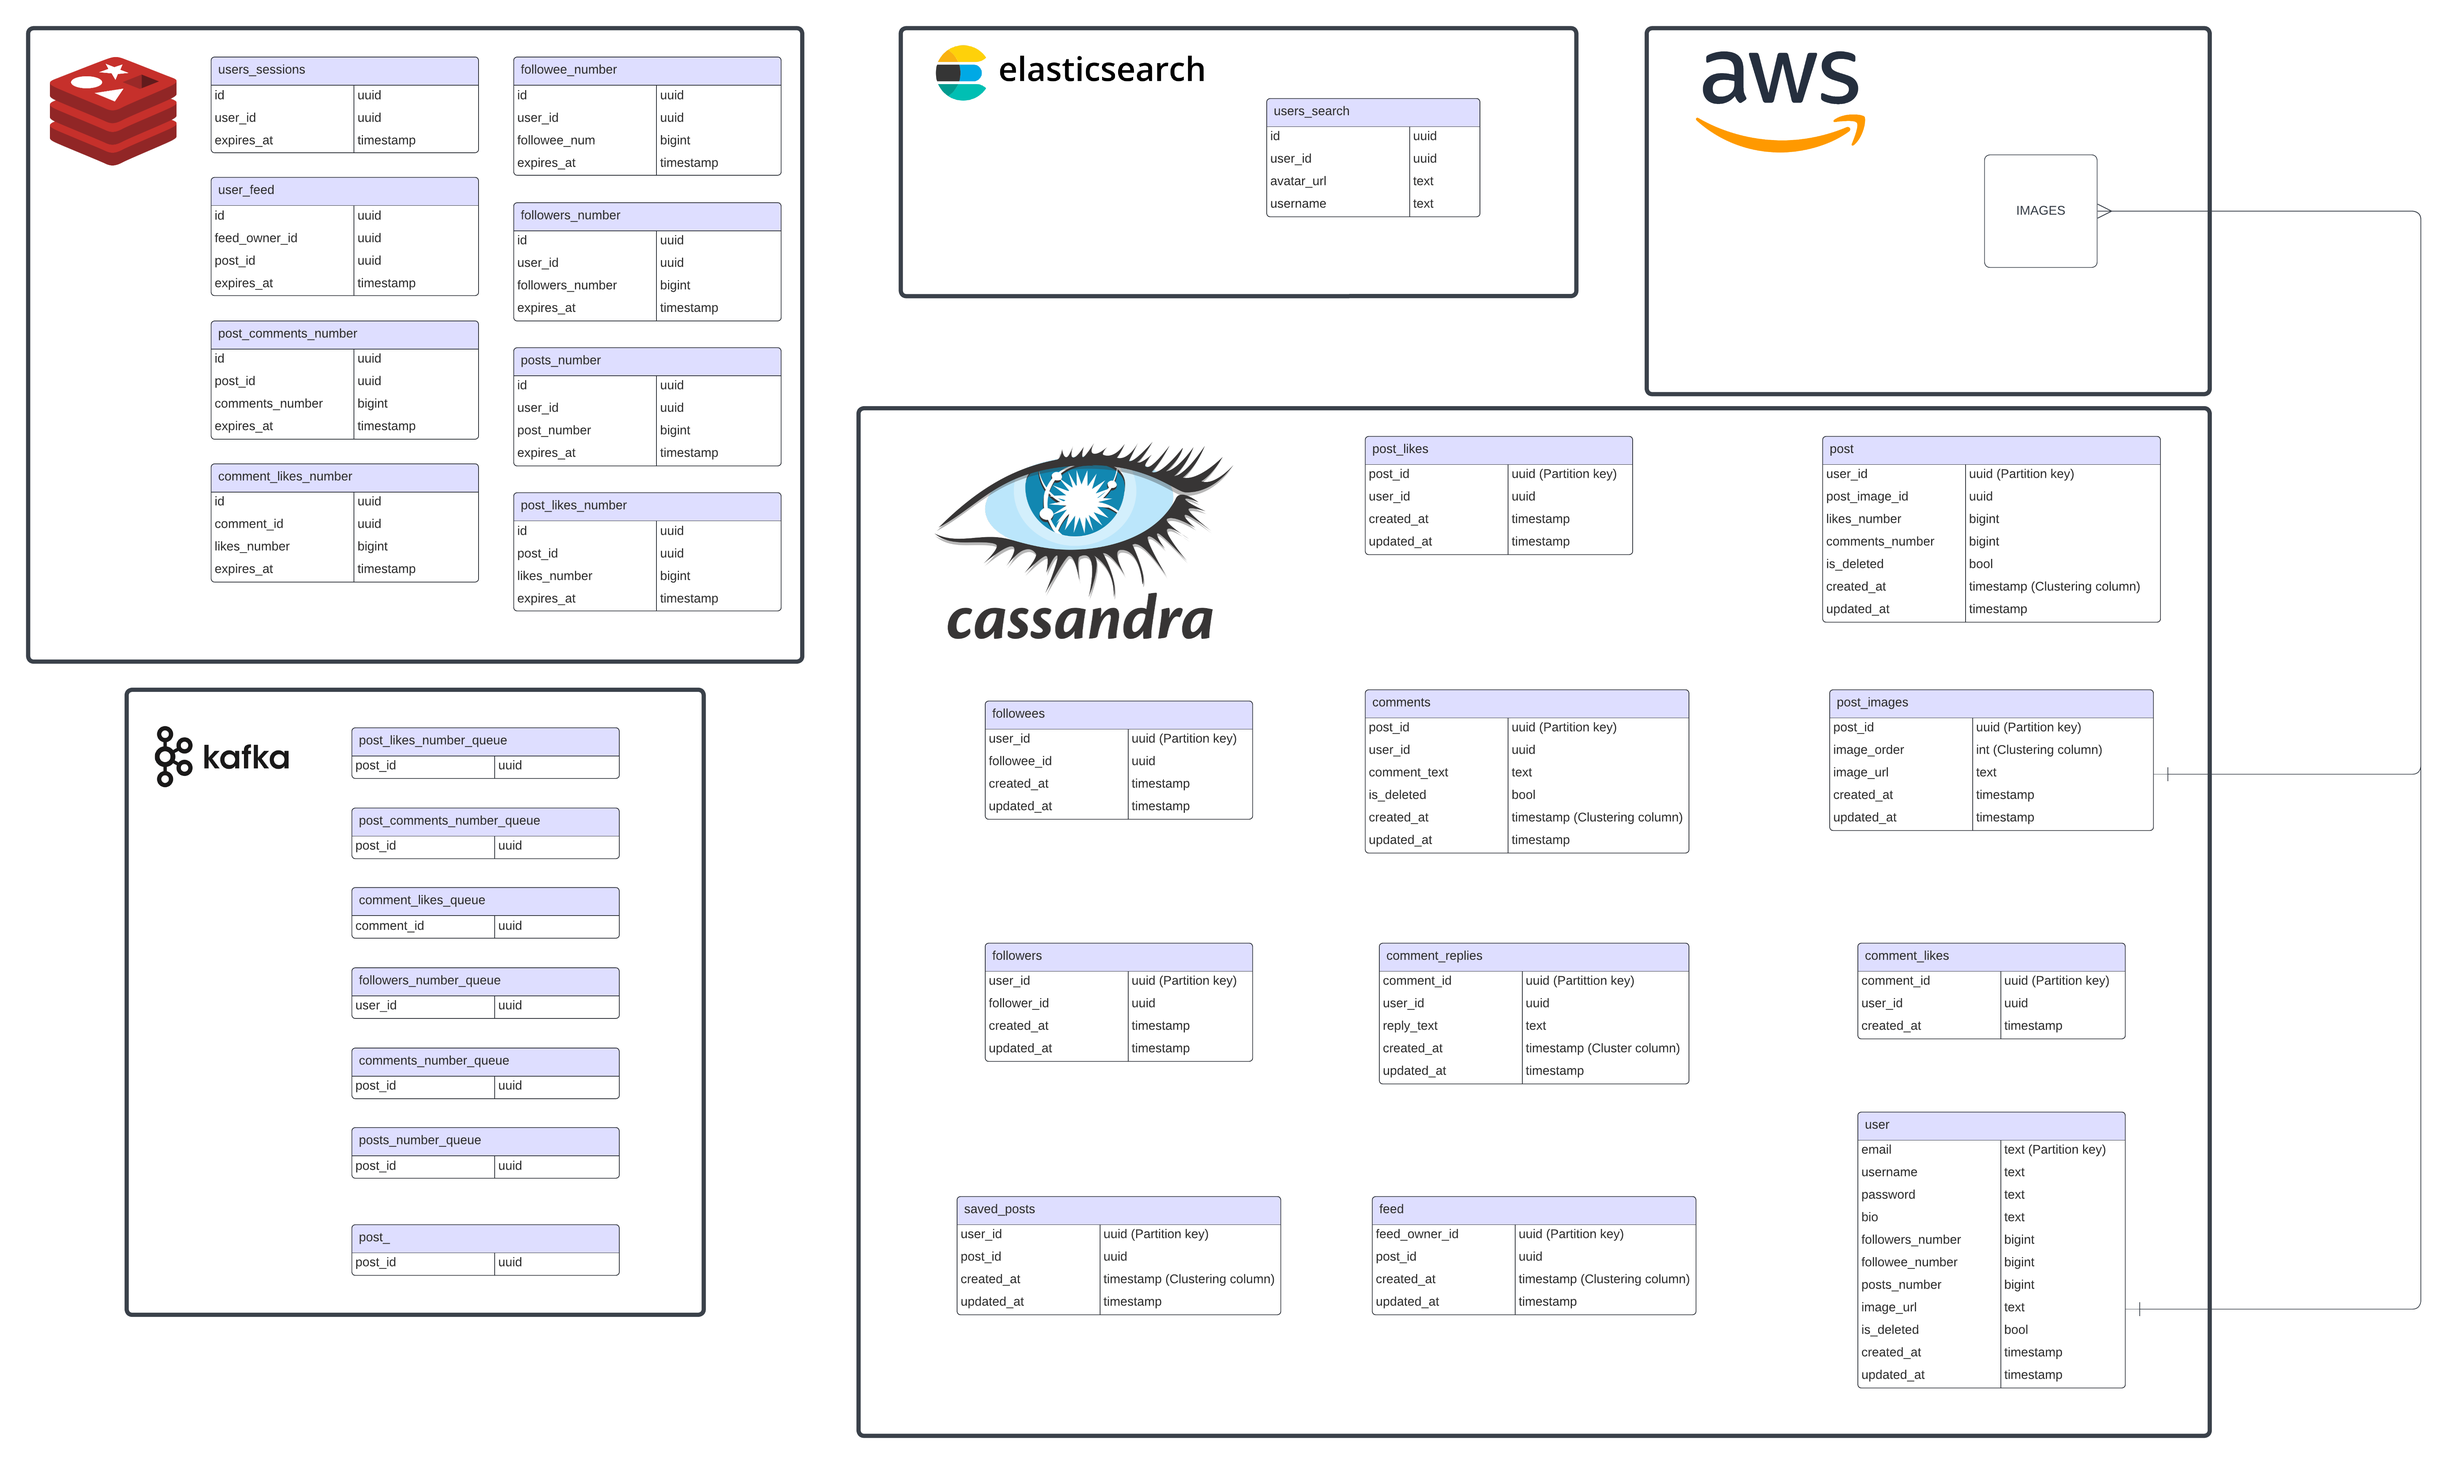
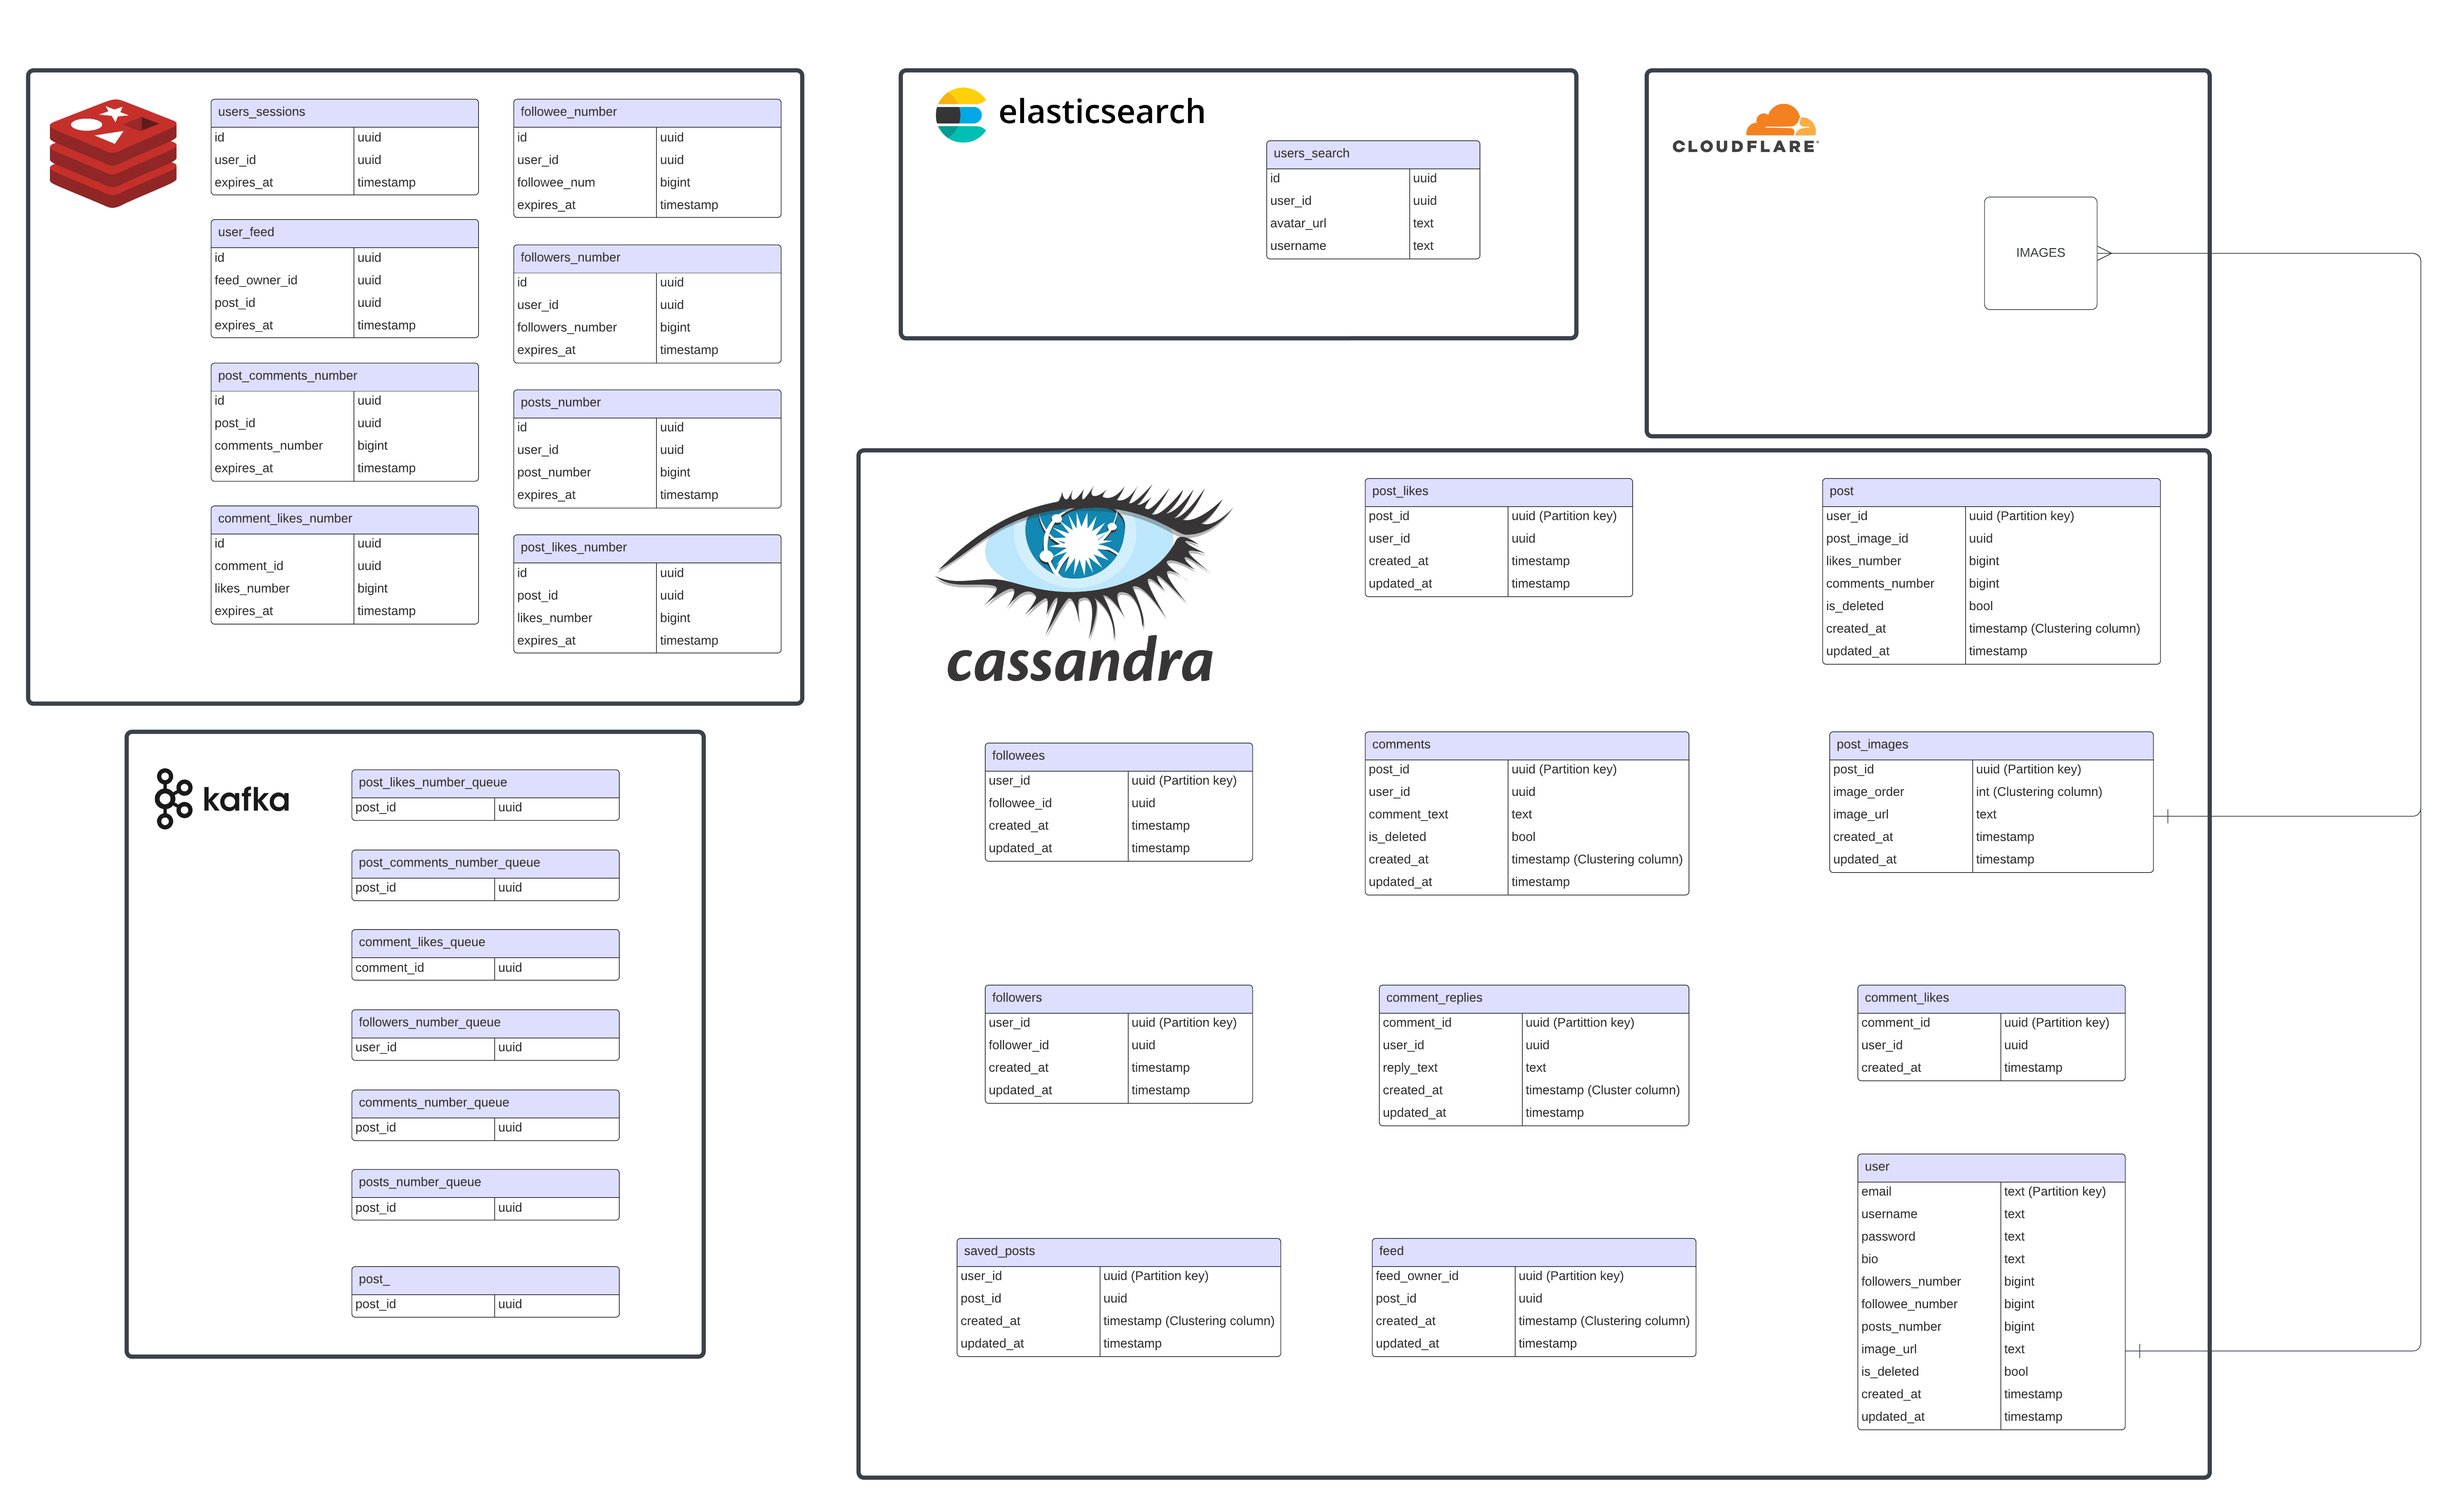
upd 8

diff --git a/README.md b/README.md
@@ -488,6 +488,33 @@ Kubernetes сам следит за состоянием pod-ов и при на
    4. Объединяет эти посты с остальной частью ленты и сортирует их по времени, а затем отдает ленту пользователю.
 
 
+## 8. Технологии
+
+Отлично! Вот заполненная мотивационная часть для каждой технологии, исходя из контекста проекта Instagram с его высокими нагрузками и требованиями:
+
+## 8. Технологии
+
+| Технология    | Область применения      | Мотивационная часть                                                                                                                                                                                                                                                                     |
+|---------------|-------------------------|-----------------------------------------------------------------------------------------------------------------------------------------------------------------------------------------------------------------------------------------------------------------------------------------|
+| Golang        | Backend                 | Высокая производительность, встроенная поддержка конкурентности (горутины) для эффективной обработки огромного количества одновременных запросов.                                                                                                                                       |
+| TypeScript    | Frontend                | Добавляет статическую типизацию в JavaScript, улучшая надежность, поддерживаемость и масштабируемость сложного frontend-кода. Снижает количество ошибок на этапе выполнения, упрощает рефакторинг в больших командах.                                                                   |
+| React         | Frontend framework      | Популярная библиотека с обширной экосистемой и большим сообществом. Позволяет эффективно создавать сложные, интерактивные пользовательские интерфейсы.                                                                                                                                  |
+| Cassandra     | Database                | Распределенная NoSQL СУБД, идеально подходящая для обработки огромных объемов данных, высоких нагрузок на запись и чтение. Обеспечивает горизонтальную масштабируемость из коробки, высокую доступность и отказоустойчивость в нескольких дата-центрах.                                 |
+| Redis         | Cache                   | Высокопроизводительное in-memory хранилище. Используется для кэширования часто запрашиваемых данных, снижения задержек и нагрузки на основную БД.                                                                                                                                       |
+| Kafka         | Message broker          | Распределенная, отказоустойчивая и масштабируемая платформа для потоковой обработки событий. Используется для асинхронной обработки задач, общения микросервисов и надежной доставки событий.                                                                                           |
+| Cloudflare R2 | S3 storage              | S3-совместимое объектное хранилище для медиафайлов. Выбрано за высокую доступность, надежность, масштабируемость и использование возможностей глобальной сети Cloudflare.                                                                                                               |
+| Nginx         | Proxy server            | Высокопроизводительный, стабильный обратный прокси-сервер и балансировщик нагрузки. Используется для терминирования SSL-соединений, балансировки L7-нагрузки между backend-сервисами.                                                                                                   |
+| Prometheus    | Metrics                 | Ведущая система мониторинга для сбора time-series метрик. Необходима для отслеживания производительности, состояния здоровья и потребления ресурсов многочисленных сервисов и инфраструктуры в реальном времени.                                                                        |
+| Grafana       | Metrics                 | Платформа для визуализации метрик и логов. Используется для создания дашбордов на основе данных из Prometheus, позволяя оперативно отслеживать состояние системы, анализировать тренды и быстро диагностировать проблемы.                                                               |
+| Docker        | Containerization        | Стандарт для упаковки приложений и их зависимостей в контейнеры. Обеспечивает консистентность окружений, упрощает развертывание и управление микросервисами, является основой для оркестрации с помощью Kubernetes.                                                                     |
+| Kubernetes    | Container orchestration | Необходим для управления тысячами контейнеров в распределенной системе, обеспечивая отказоустойчивость, масштабируемость и эффективное использование ресурсов.                                                                                                                          |
+| Elasticsearch | Search engine           | Распределенный поисковый движок для реализации полнотекстового поиска пользователей. Обеспечивает быструю индексацию и поиск, релевантность результатов и горизонтальную масштабируемость для обработки поисковых запросов.                                                             |
+| ELK           | Logs                    | Комплексное решение (Elasticsearch, Logstash, Kibana) для централизованного сбора, обработки, хранения, анализа и визуализации логов со всех компонентов системы. Критически важно для отладки, мониторинга и анализа инцидентов в распределенной среде с большим количеством сервисов. |
+| Kotlin        | Android app             | Официально рекомендованный Google язык для разработки под Android.                                                                                                                                                                                                                      |
+| Swift         | iOS app                 | Официально рекомендованный Apple язык разработки для iOS.                                                                                                                                                                                                                               |
+
+
+
 ## Список использованных источников
 [^1]: [Instagram users, stats, data & trends](https://datareportal.com/essential-instagram-stats)
 
